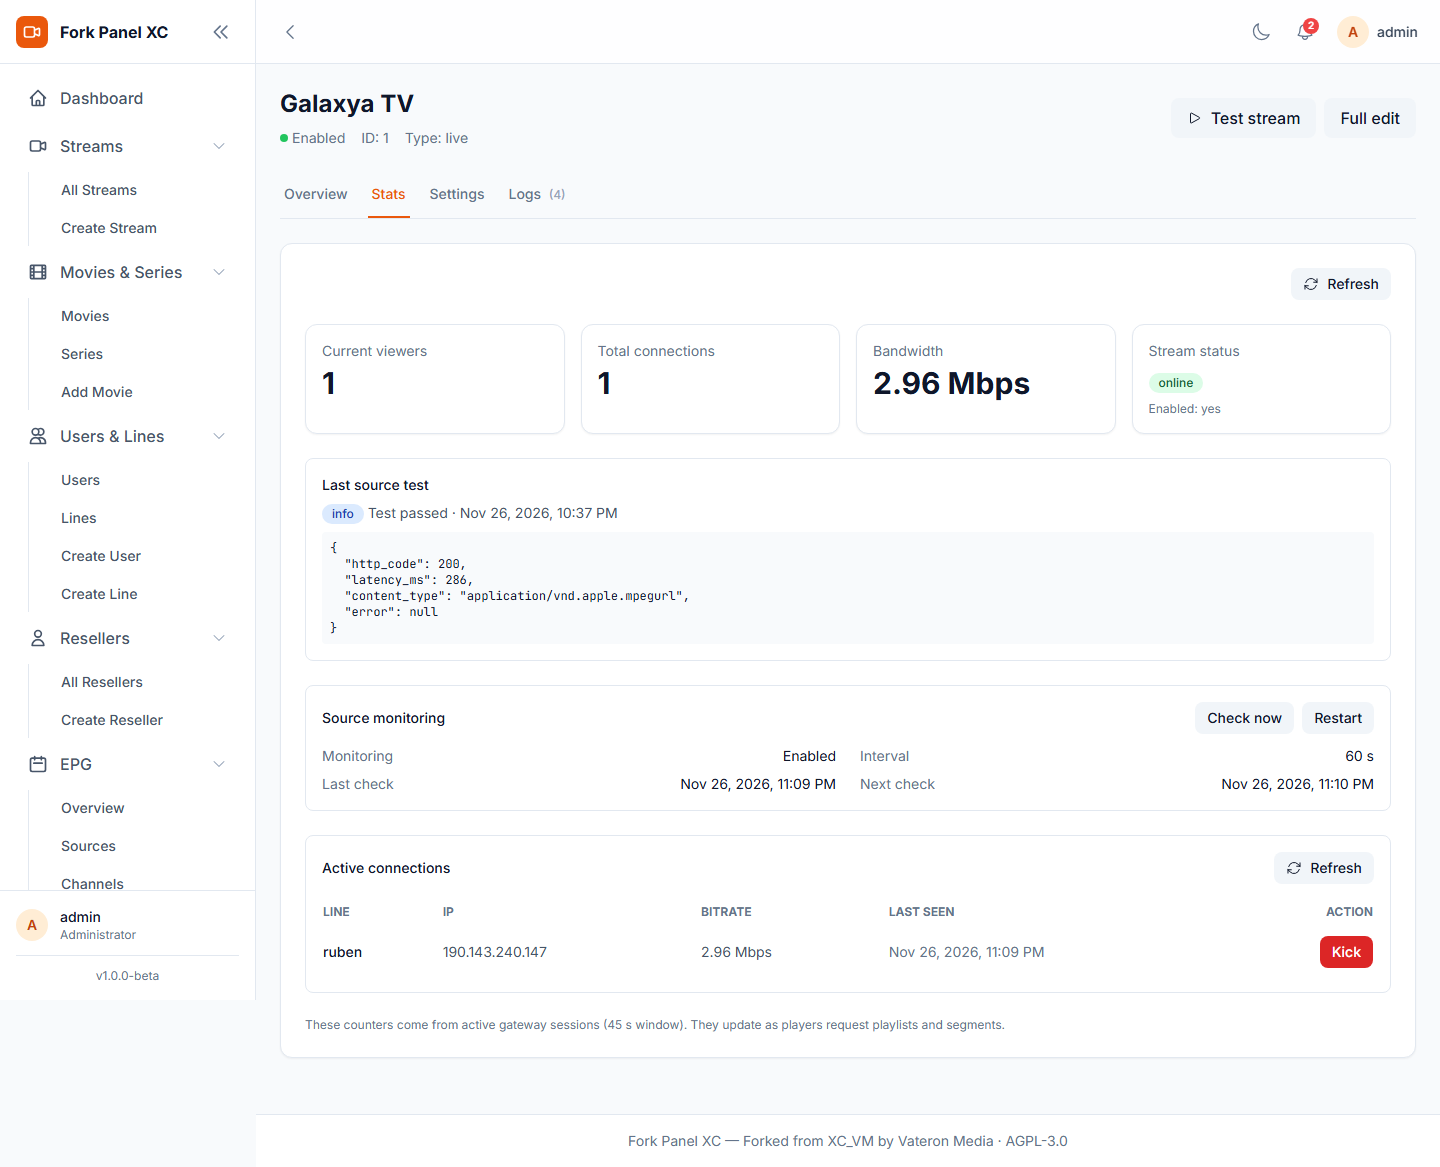
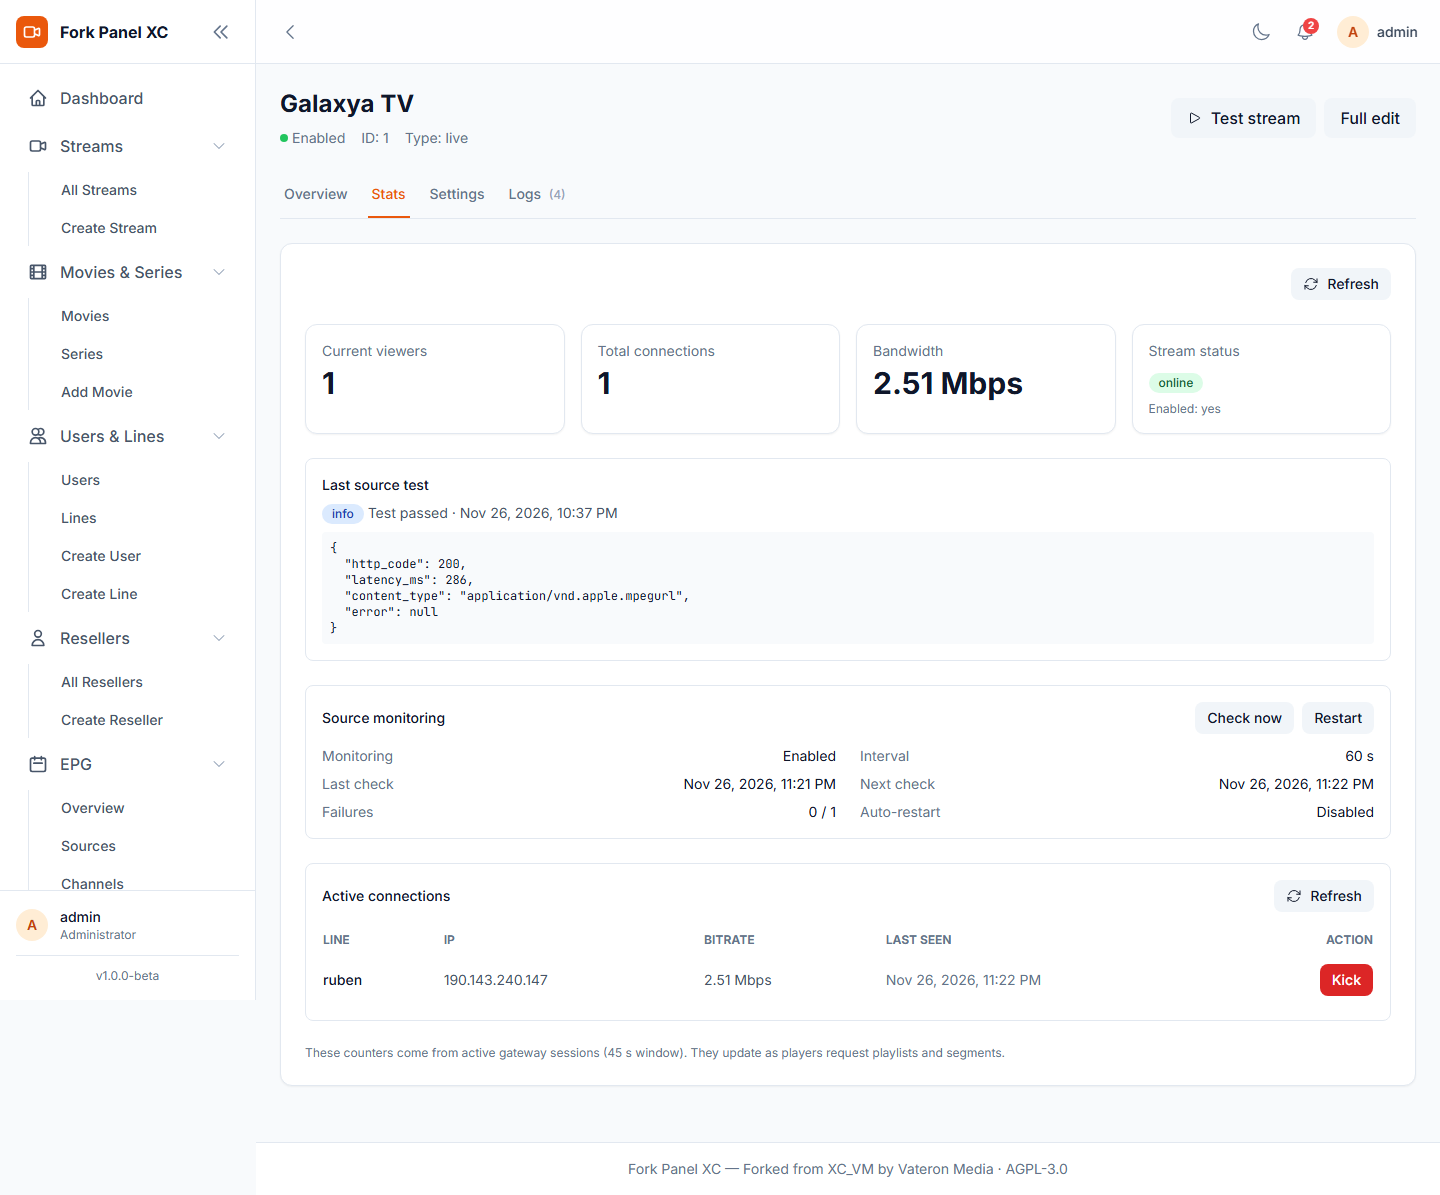
feat(streams): XC_VM-style monitor options
Reviewed the AGPL-3.0 XC_VM code at TalaveraSama/flpanel2 and reimplemented
the useful monitor behavior for this fork:

- monitor_fail_threshold (1-10): stay online during grace window, mark offline
  when consecutive failures reach the threshold
- monitor_fail_count + clamped counter
- monitor_autorestart: when crossing online -> offline, drop sessions and log
  Monitor: auto-restart
- POST /streams/monitor-all + Check all button in Streams list
- Settings: failure threshold and auto-restart; Stats shows failures/auto-restart
- Migration 009 and docs/ATTRIBUTION.md (XC_VM AGPL attribution)

diff --git a/frontend/src/views/streams/StreamDetailView.vue b/frontend/src/views/streams/StreamDetailView.vue
@@ -35,6 +35,8 @@ const settings = reactive({
   enabled: true,
   monitor_enabled: true,
   monitor_interval: 60,
+  monitor_fail_threshold: 1,
+  monitor_autorestart: false,
 })
 
 function applyStream(data) {
@@ -49,6 +51,8 @@ function applyStream(data) {
     enabled: !!data.enabled,
     monitor_enabled: data.monitor_enabled !== undefined ? !!data.monitor_enabled : true,
     monitor_interval: data.monitor_interval || 60,
+    monitor_fail_threshold: data.monitor_fail_threshold || 1,
+    monitor_autorestart: data.monitor_autorestart !== undefined ? !!data.monitor_autorestart : false,
   })
 }
 
@@ -130,6 +134,8 @@ async function saveSettings() {
       enabled: settings.enabled,
       monitor_enabled: settings.monitor_enabled,
       monitor_interval: settings.monitor_interval,
+      monitor_fail_threshold: settings.monitor_fail_threshold,
+      monitor_autorestart: settings.monitor_autorestart,
     })
     applyStream(response.data || response)
     uiStore.toastSuccess('Stream settings saved')
@@ -361,6 +367,8 @@ onMounted(fetchStream)
               <div class="flex justify-between"><dt class="text-dark-500 dark:text-dark-400">Interval</dt><dd class="text-dark-900 dark:text-white">{{ stats?.monitor_interval || 60 }} s</dd></div>
               <div class="flex justify-between"><dt class="text-dark-500 dark:text-dark-400">Last check</dt><dd class="text-dark-900 dark:text-white">{{ stats?.monitor_last_check ? formatDateTime(stats.monitor_last_check) : 'Never' }}</dd></div>
               <div class="flex justify-between"><dt class="text-dark-500 dark:text-dark-400">Next check</dt><dd class="text-dark-900 dark:text-white">{{ stats?.next_check ? formatDateTime(stats.next_check) : '—' }}</dd></div>
+              <div class="flex justify-between"><dt class="text-dark-500 dark:text-dark-400">Failures</dt><dd class="text-dark-900 dark:text-white">{{ stats?.monitor_fail_count || 0 }} / {{ stats?.monitor_fail_threshold || 1 }}</dd></div>
+              <div class="flex justify-between"><dt class="text-dark-500 dark:text-dark-400">Auto-restart</dt><dd class="text-dark-900 dark:text-white">{{ stats?.monitor_autorestart ? 'Enabled' : 'Disabled' }}</dd></div>
             </dl>
             <p v-if="stats?.monitor_last_error" class="mt-2 text-red-600 dark:text-red-400">Last error: {{ stats.monitor_last_error }}</p>
           </div>
@@ -472,6 +480,19 @@ onMounted(fetchStream)
                     <option :value="3600">1 hour</option>
                   </select>
                 </div>
+                <div>
+                  <label class="label" for="s_monitor_threshold">Mark offline after</label>
+                  <select id="s_monitor_threshold" v-model.number="settings.monitor_fail_threshold" class="input">
+                    <option :value="1">1 failed check</option>
+                    <option :value="2">2 failed checks</option>
+                    <option :value="3">3 failed checks</option>
+                    <option :value="5">5 failed checks</option>
+                  </select>
+                </div>
+                <label class="flex items-center gap-2 text-sm text-dark-700 dark:text-dark-300">
+                  <input v-model="settings.monitor_autorestart" type="checkbox" class="w-4 h-4 rounded border-dark-300 text-primary-600 focus:ring-primary-500" />
+                  Auto-restart sessions when offline
+                </label>
               </div>
             </div>
 

diff --git a/frontend/src/views/streams/StreamsView.vue b/frontend/src/views/streams/StreamsView.vue
@@ -5,7 +5,7 @@ import { useUiStore } from '@stores/ui'
 import streamsService from '@services/streams'
 import { formatNumber, getStatusColor } from '@utils/format'
 import DataTable from '@components/ui/DataTable.vue'
-import { PlusIcon, MagnifyingGlassIcon, FunnelIcon, ArrowPathIcon } from '@heroicons/vue/24/outline'
+import { PlusIcon, MagnifyingGlassIcon, FunnelIcon, ArrowPathIcon, PlayIcon } from '@heroicons/vue/24/outline'
 
 const router = useRouter()
 const uiStore = useUiStore()
@@ -25,6 +25,7 @@ const filters = ref({
 const sort = ref({ field: 'id', direction: 'desc' })
 const selectedIds = ref([])
 const categories = ref([])
+const checkingAll = ref(false)
 let refreshTimer = null
 
 // Computed
@@ -130,6 +131,20 @@ async function deleteStream(id) {
     fetchStreams()
   } catch (error) {
     uiStore.toastError('Failed to delete stream')
+  }
+}
+
+async function checkAllStreams() {
+  checkingAll.value = true
+  try {
+    const response = await streamsService.monitorAll()
+    const result = response.data || response
+    uiStore.toastSuccess(`Checked ${result.checked || 0}: ${result.online || 0} online, ${result.offline || 0} offline`)
+    fetchStreams()
+  } catch (error) {
+    uiStore.toastError('Monitor check failed')
+  } finally {
+    checkingAll.value = false
   }
 }
 
@@ -243,6 +258,11 @@ onUnmounted(() => {
               <option value="series">Series</option>
               <option value="radio">Radio</option>
             </select>
+
+            <button @click="checkAllStreams" :disabled="checkingAll" class="btn-secondary">
+              <PlayIcon class="w-4 h-4" />
+              {{ checkingAll ? 'Checking…' : 'Check all' }}
+            </button>
 
             <button @click="clearFilters" class="btn-secondary">
               <FunnelIcon class="w-4 h-4" />

diff --git a/frontend/src/services/streams.js b/frontend/src/services/streams.js
@@ -71,6 +71,12 @@ export const streamsService = {
     return data
   },
 
+  // Check all sources now
+  async monitorAll() {
+    const { data } = await api.post('/streams/monitor-all')
+    return data
+  },
+
   // Restart stream (drop sessions + check source)
   async restart(id) {
     const { data } = await api.post(`/streams/${id}/restart`)

diff --git a/src/Domain/Stream/StreamMonitor.php b/src/Domain/Stream/StreamMonitor.php
@@ -24,6 +24,20 @@ final class StreamMonitor
             [$now]
         );
 
+        return self::checkMany($streams);
+    }
+
+    public static function checkAll(int $limit = 100): array
+    {
+        $streams = Db::select(
+            'SELECT * FROM streams WHERE enabled = 1 ORDER BY monitor_last_check IS NULL DESC, monitor_last_check ASC LIMIT ' . max(1, $limit)
+        );
+
+        return self::checkMany($streams);
+    }
+
+    private static function checkMany(array $streams): array
+    {
         $checked = 0;
         $online = 0;
 
@@ -70,49 +84,76 @@ final class StreamMonitor
         $latency = (int) round((microtime(true) - $started) * 1000);
         $now = time();
 
+        $threshold = max(1, (int) ($stream['monitor_fail_threshold'] ?? 1));
+        $previous = $stream['monitor_last_status'];
+        $previousOnline = $previous !== null && (int) $previous === 1;
+        $failCount = $online ? 0 : min($threshold, (int) ($stream['monitor_fail_count'] ?? 0) + 1);
+
+        // Stay online during the grace window; go offline once the threshold is
+        // reached. A stream that was never online is offline immediately.
+        $effectiveOnline = $online || ($failCount < $threshold && $previousOnline);
+        $status = $effectiveOnline ? 'online' : 'offline';
+
         Db::execute(
             'UPDATE streams SET status = ?, monitor_last_check = ?, monitor_last_status = ?,
-                    monitor_last_error = ?, updated_at = ? WHERE id = ?',
+                    monitor_last_error = ?, monitor_fail_count = ?, updated_at = ? WHERE id = ?',
             [
-                $online ? 'online' : 'offline',
+                $status,
                 $now,
-                $online ? 1 : 0,
+                $effectiveOnline ? 1 : 0,
                 $error !== '' ? mb_substr($error, 0, 500) : null,
+                $failCount,
                 $now,
                 (int) $stream['id'],
             ]
         );
 
-        $previous = $stream['monitor_last_status'];
-        $previousError = $stream['monitor_last_error'] ?? null;
-        $shouldLog = $previous === null
-            || (int) $previous !== ($online ? 1 : 0)
-            || ($error !== '' && $error !== $previousError);
+        $shouldLog = $previous === null || $previousOnline !== $effectiveOnline;
 
         if ($shouldLog) {
             Db::execute(
                 'INSERT INTO stream_logs (stream_id, level, message, context, created_at) VALUES (?, ?, ?, ?, ?)',
                 [
                     (int) $stream['id'],
-                    $online ? 'info' : 'warning',
-                    $online ? 'Monitor: online' : 'Monitor: offline',
+                    $effectiveOnline ? 'info' : 'warning',
+                    $effectiveOnline ? 'Monitor: online' : 'Monitor: offline',
                     json_encode([
                         'http_code' => $code,
                         'latency_ms' => $latency,
                         'content_type' => $contentType,
                         'error' => $error !== '' ? $error : null,
+                        'fail_count' => $failCount,
+                        'fail_threshold' => $threshold,
                     ]),
                     $now,
                 ]
             );
         }
 
+        // XUI-style auto-restart: when a monitored stream crosses to offline and
+        // the option is enabled, drop its sessions so players reconnect.
+        if (!$effectiveOnline && $previousOnline && (int) ($stream['monitor_autorestart'] ?? 0) === 1) {
+            Db::execute('DELETE FROM stream_sessions WHERE stream_id = ?', [(int) $stream['id']]);
+            Db::execute(
+                'INSERT INTO stream_logs (stream_id, level, message, context, created_at) VALUES (?, ?, ?, ?, ?)',
+                [
+                    (int) $stream['id'],
+                    'warning',
+                    'Monitor: auto-restart',
+                    json_encode(['reason' => 'source offline', 'fail_count' => $failCount]),
+                    $now,
+                ]
+            );
+        }
+
         return [
-            'online' => $online,
+            'online' => $effectiveOnline,
             'http_code' => $code,
             'latency' => $latency,
             'content_type' => $contentType,
             'error' => $error !== '' ? $error : null,
+            'fail_count' => $failCount,
+            'fail_threshold' => $threshold,
         ];
     }
 

diff --git a/src/Public/Controllers/Api/StreamsController.php b/src/Public/Controllers/Api/StreamsController.php
@@ -111,7 +111,8 @@ class StreamsController extends BaseApiController
         $allowed = [
             'stream_display_name', 'stream_source', 'stream_icon', 'stream_type',
             'category_id', 'epg_channel_id', 'enabled', 'status',
-            'monitor_enabled', 'monitor_interval',
+            'monitor_enabled', 'monitor_interval', 'monitor_fail_threshold',
+            'monitor_autorestart',
         ];
 
         if (array_key_exists('monitor_interval', $data)) {
@@ -122,6 +123,16 @@ class StreamsController extends BaseApiController
             }
 
             $data['monitor_interval'] = $interval;
+        }
+
+        if (array_key_exists('monitor_fail_threshold', $data)) {
+            $threshold = (int) $data['monitor_fail_threshold'];
+
+            if ($threshold < 1 || $threshold > 10) {
+                return ApiResponse::error('Monitor fail threshold must be between 1 and 10', 422);
+            }
+
+            $data['monitor_fail_threshold'] = $threshold;
         }
 
         $updates = array_intersect_key($data, array_flip($allowed));
@@ -215,6 +226,15 @@ class StreamsController extends BaseApiController
         return ApiResponse::json(['data' => Db::select('SELECT id, category_name AS name, category_type AS type FROM categories ORDER BY category_name')]);
     }
 
+    public function monitorAll(ApiRequest $request): ApiResponse
+    {
+        $result = \ForkPanelXc\Domain\Stream\StreamMonitor::checkAll(
+            min(200, max(1, (int) $request->query('limit', 100)))
+        );
+
+        return ApiResponse::json(['data' => $result]);
+    }
+
     public function monitor(ApiRequest $request, string $id): ApiResponse
     {
         $streamId = (int) $id;
@@ -280,6 +300,9 @@ class StreamsController extends BaseApiController
             'monitor_last_check' => $stream['monitor_last_check'] !== null ? (int) $stream['monitor_last_check'] : null,
             'monitor_last_status' => $stream['monitor_last_status'] !== null ? (int) $stream['monitor_last_status'] : null,
             'monitor_last_error' => $stream['monitor_last_error'] ?? null,
+            'monitor_fail_threshold' => (int) ($stream['monitor_fail_threshold'] ?? 1),
+            'monitor_fail_count' => (int) ($stream['monitor_fail_count'] ?? 0),
+            'monitor_autorestart' => (bool) ($stream['monitor_autorestart'] ?? false),
             'next_check' => $stream['monitor_last_check'] !== null
                 ? (int) $stream['monitor_last_check'] + (int) ($stream['monitor_interval'] ?? 60)
                 : null,

diff --git a/src/routes/api.php b/src/routes/api.php
@@ -51,6 +51,7 @@ $router->group('/api', function (Router $router): void {
     $router->group('/streams', function (Router $router): void {
         $router->get('', [StreamsController::class, 'index']);
         $router->post('', [StreamsController::class, 'store'], ['permission:streams.create']);
+        $router->post('/monitor-all', [StreamsController::class, 'monitorAll'], ['permission:streams.edit']);
         $router->get('/categories', [StreamsController::class, 'categories']);
         $router->get('/export', [StreamsController::class, 'export']);
         $router->post('/import', [StreamsController::class, 'import'], ['permission:streams.create']);

diff --git a/docs/ATTRIBUTION.md b/docs/ATTRIBUTION.md
@@ -1,0 +1,31 @@
+# Attribution and upstream notices
+
+Fork Panel XC is distributed under **AGPL-3.0**. It is a fork of
+[XC_VM](https://github.com/Vateron-Media/XC_VM) (Vateron Media), which in turn
+builds on the open Xtream UI ecosystem. The original copyright, license and
+footer attribution are preserved.
+
+## XC_VM / flpanel2
+
+Stream monitoring and stream-management behavior in this fork was reviewed
+against the open-source XC_VM codebase (AGPL-3.0), including the mirror at
+[`TalaveraSama/flpanel2`](https://github.com/TalaveraSama/flpanel2):
+
+- per-stream monitoring lifecycle and failure state,
+- failure thresholds before marking a source offline,
+- automatic restart when a monitored source becomes unavailable,
+- global "check all streams" operations,
+- stream audit/error logging.
+
+Those ideas were **reimplemented for this fork's API + gateway architecture**
+(PDO migrations, `StreamMonitor`, `StreamProxy`, Vue tabs). No proprietary
+XUI.one code was used. Where code is adapted from XC_VM in the future, the
+AGPL-3.0 notices and attribution must be kept.
+
+## Third-party components
+
+- Vue 3, Vite, Pinia, Vue Router, Tailwind CSS, Chart.js, Heroicons.
+- PHP 8.3, MariaDB, nginx, Redis.
+- TMDB metadata via The Movie Database API.
+
+See `LICENSE` for the full AGPL-3.0 text.

diff --git a/docs/XTREAM-COMPAT.md b/docs/XTREAM-COMPAT.md
@@ -90,11 +90,22 @@ Cada canal con `monitor_enabled = 1` se comprueba cuando vence su intervalo
 - escribe en `stream_logs` solo cuando cambia el estado o el error,
 - `GET /api/streams/{id}/stats` expone el estado y el próximo chequeo.
 
+Opciones por canal:
+
+- **Check every**: 1 min, 5 min, 15 min o 1 h.
+- **Mark offline after**: 1, 2, 3 o 5 chequeos fallidos (por defecto 1).
+  Mientras no se alcanza el umbral, el canal sigue `online` y guarda el error.
+- **Auto-restart sessions when offline**: al pasar a `offline` se eliminan las
+  sesiones activas para forzar la reconexión de los players.
+- **Check all** en la lista de Streams: comprueba todos los canales habilitados
+  de inmediato.
+
 En **Streams → canal → Stats** tienes:
 
 - **Check now**: comprueba la fuente inmediatamente.
 - **Restart**: expulsa las sesiones activas y vuelve a comprobar la fuente.
-- **Source monitoring**: enabled, intervalo, último chequeo y próximo chequeo.
+- **Source monitoring**: enabled, intervalo, umbral de fallos, auto-restart,
+  último chequeo, próximo chequeo y último error.
 
 Los canales monitorizados mantienen su estado `online` aunque no tengan viewers;
 los no monitorizados pasan a `offline` cuando no hay sesiones.

diff --git a/README.md b/README.md
@@ -413,8 +413,8 @@ Measured: 352 channels, ~2 Gbps inbound, 36 s ring
 - ✅ **No server restrictions** - Run on any compatible Linux server
 - ✅ **EPG importer** - Full XMLTV/JSON EPG support with merge capabilities
 - ✅ **VOD management** - Movies, Series, Episodes
-- ✅ **Stream detail tabs** - Real stats, inline settings, per-stream audit logs (`stream_logs`) and source monitoring (interval, check now, restart, online/offline)
-- ✅ **Streams list health** - Green **Online** / red **Offline** badges from the monitor, with 30 s auto-refresh
+- ✅ **Stream detail tabs** - Real stats, inline settings, per-stream audit logs (`stream_logs`) and source monitoring (interval, failure threshold, auto-restart, check now/restart, online/offline)
+- ✅ **Streams list health** - Green **Online** / red **Offline** badges from the monitor, **Check all**, with 30 s auto-refresh
 - ✅ **User/Reseller panel** - Complete subscription & access control, including line creation, expiration and password resets
 - ✅ **Security patches** - Hardened against common vulnerabilities
 - ✅ **Load balancing & clustering** - Multi-node support with fanout delivery

diff --git a/CHANGELOG.md b/CHANGELOG.md
@@ -26,6 +26,9 @@ and this project adheres to [Semantic Versioning](https://semver.org/spec/v2.0.0
   - **Stream monitoring**: per-channel interval, `online/offline` source checks
     from the scheduler, Check now / Restart actions and monitor state in Stats
     (migration `008_stream_monitor.sql`)
+  - Monitor options: failure threshold (1–5 checks), auto-restart sessions on
+    offline, global **Check all** in the Streams list (migration
+    `009_stream_monitor_options.sql`)
   - Streams list shows green **Online** / red **Offline** (or **Disabled**)
     from monitor state, with 30 s auto-refresh and online/offline filters
   - Movies & Series management with TMDB integration

diff --git a/docs/releases/v1.0.0-beta.md b/docs/releases/v1.0.0-beta.md
@@ -107,6 +107,8 @@ Cambia la contraseña de `admin` tras el primer acceso.
 - **Monitoreo de fuentes**: intervalo por canal (1 min–1 h), chequeo automático
   desde el scheduler, **Check now** y **Restart**. Estado `online/offline`,
   último error y próximo chequeo visibles en Stats.
+- Opciones de monitor: umbral de fallos (1–5), **auto-restart** de sesiones al
+  pasar a offline y **Check all** global en la lista de Streams.
 - La lista de **Streams** muestra **Online** en verde, **Offline** en rojo y
   **Disabled**, con refresco automático cada 30 s.
 - **Settings** permite editar nombre, fuente, icono, tipo, categoría, EPG channel
